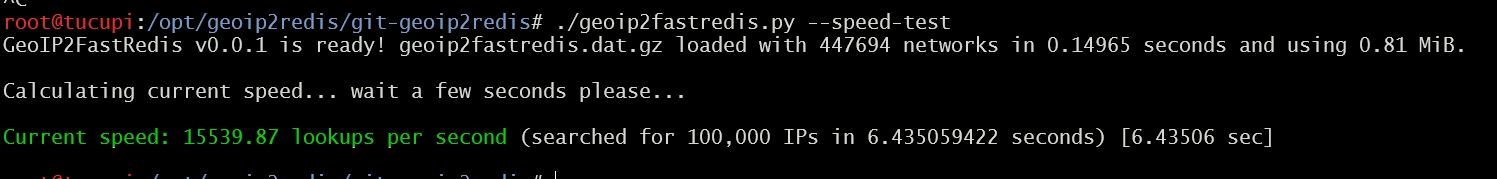
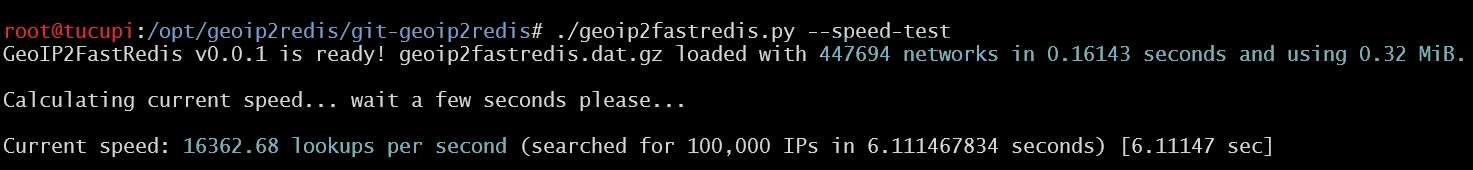
Preview v0.0.1

diff --git a/README.md b/README.md
@@ -9,14 +9,15 @@ GeoIP2FastRedis is the fastest GeoIP2 country lookup library. Automatically impo
 ### - Imports 440K networks in less than 3 seconds
 ### - Load the main index into memory in 0.15 seconds.
 ### - Use less than 1Mb of footprint
-### - A search takes around 0.0007 seconds
+### - A search takes around 0.00007 seconds
 ### - If the search is cached, it takes less than 0.000001 seconds
-### - Performs 15K searches per second, per core (without cache)
-
-![](https://github.com/rabuchaim/geoip2redis/blob/main/images/redis_import.jpg)
+### - Performs >15K searches per second, per core (without cache)
 
 
-![](https://github.com/rabuchaim/geoip2redis/blob/main/images/geoip2redis_test.jpg)
+![](https://raw.githubusercontent.com/rabuchaim/geoip2redis/main/images/redis_import.jpg)
 
 
-![](https://github.com/rabuchaim/geoip2redis/blob/main/images/geoip2redis_speedtest.jpg)
+![](https://raw.githubusercontent.com/rabuchaim/geoip2redis/main/images/geoip2redis_test.jpg)
+
+
+![](https://raw.githubusercontent.com/rabuchaim/geoip2redis/main/images/geoip2redis_speedtest.jpg)
